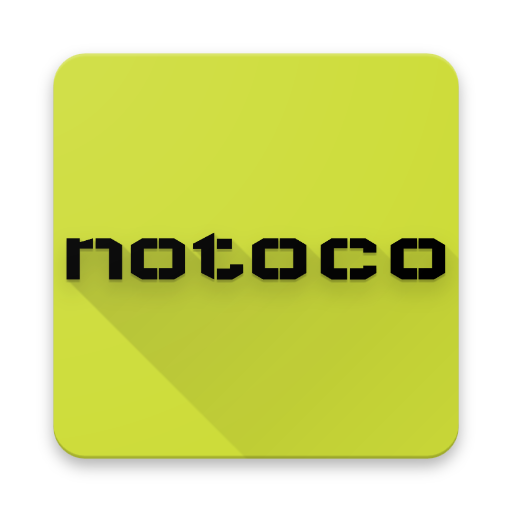
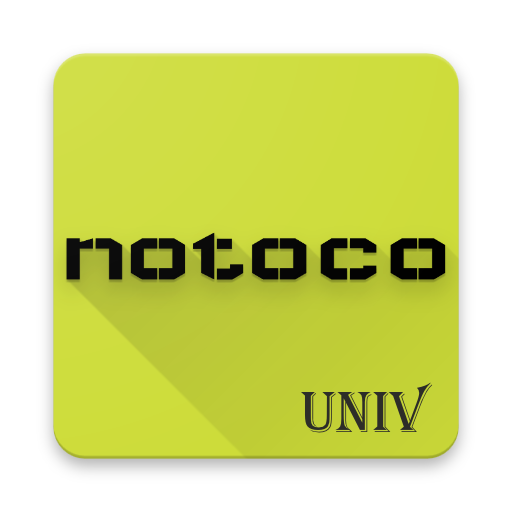
up repo
rozdzielenie repo na odrębne.

Changed region(s): [[0.5938, 0.75, 0.8438, 0.8438]]

diff --git a/zip/repository.notoco.univ/index.html b/zip/repository.notoco.univ/index.html
@@ -6,11 +6,13 @@
     <body>
     <h1>repository.notoco.univ</h1>
     <table>
+            <tr><td><a href="icon.png/">icon.png</a></td></tr>
             <tr><td><a href="repository.notoco.univ-1.0.0.zip">repository.notoco.univ-1.0.0.zip</a></td></tr>
             <tr><td><a href="repository.notoco.univ-1.0.1.zip">repository.notoco.univ-1.0.1.zip</a></td></tr>
             <tr><td><a href="repository.notoco.univ-1.1.zip">repository.notoco.univ-1.1.zip</a></td></tr>
             <tr><td><a href="repository.notoco.univ-1.2.zip">repository.notoco.univ-1.2.zip</a></td></tr>
             <tr><td><a href="repository.notoco.univ-1.3.zip">repository.notoco.univ-1.3.zip</a></td></tr>
+            <tr><td><a href="repository.notoco.univ-1.4.zip">repository.notoco.univ-1.4.zip</a></td></tr>
     </table>
     </body>
     </html>
